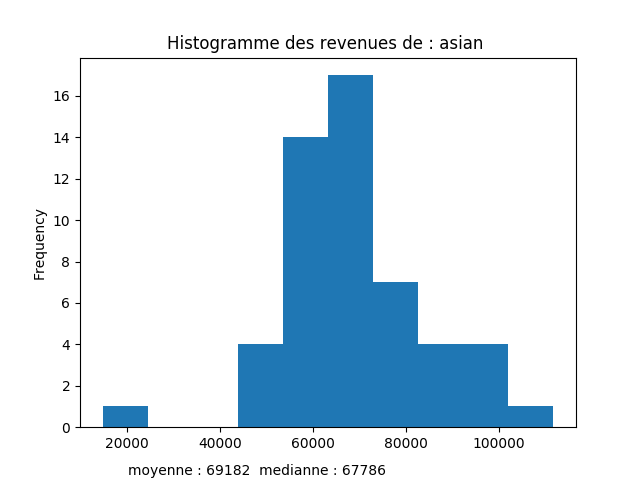
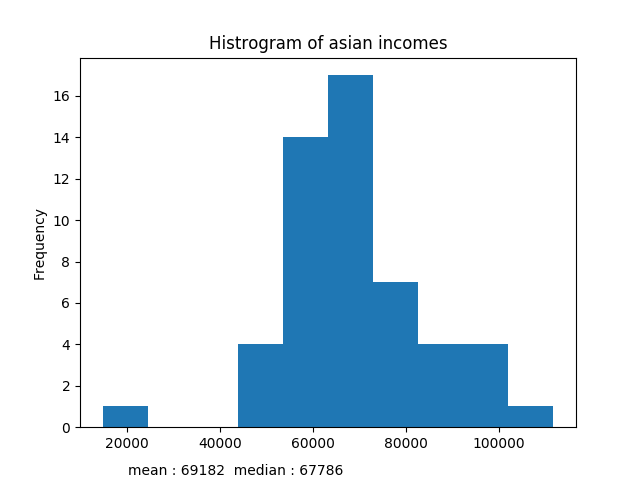
translated everyhting to english, now english is the project language

Changed region(s): [[0.25, 0.0625, 0.75, 0.125], [0.2188, 0.9688, 0.625, 1.0]]

diff --git a/templates/layout.html b/templates/layout.html
@@ -12,13 +12,13 @@
   </head>
   <body>
     <nav class="nav container">
-        <a class="nav-link" href="{{ url_for('index')}}">Données</a>
-        <a class="nav-link" href="{{ url_for('analysis')}}">Analyse</a>
+        <a class="nav-link" href="{{ url_for('index')}}">Data</a>
+        <a class="nav-link" href="{{ url_for('analysis')}}">Analysis</a>
     </nav>
     <header class="jumbotron jumbotron-fluid bg-info text-white">
       <section class="container">
-        <h1 class="display-4">Revenus médians des foyers américains</h1>
-        <p class="lead">Une analyse des données produites par le bureau du recensement américain sur le revenu médian des foyers par ethnie et par état</p>
+        <h1 class="display-4">Median incomes of US households</h1>
+        <p class="lead">Data produced by the US Census Bureau about median incomes for households by race and state</p>
       </section>
     </header>
     <main class="container">

diff --git a/templates/analysis.html b/templates/analysis.html
@@ -1,10 +1,10 @@
 {% extends "layout.html" %}
 {% block title %}Analyse{% endblock %}
 {%block main %}
-  <h1>Analyse des données</h1>
+  <h1>Data Analysis</h1>
 
   <section class="container">
-    <h2>Distribution du revenu médian des foyers par ethnie</h2>
+    <h2>Distribution of highest and lowest incomes by race</h2>
     <div class="row">
       <div class="col-sm-6">
         <img class="img-fluid" src="{{ url_for('static', filename='images/distri_richest_race.png')}}" alt="">
@@ -16,7 +16,7 @@
   </section>
 
   <section class="container">
-    <h2>Histogrammes des revenus par ethnie</h2>
+    <h2>Distribution of incomes by race</h2>
     <div class="row">
       <div class="col-sm-4">
         <img class="img-fluid" src="{{ url_for('static', filename='images/hist_white.png')}}" alt="">

diff --git a/templates/index.html b/templates/index.html
@@ -1,6 +1,6 @@
 {% extends "layout.html" %}
 {% block title %}Données{% endblock %}
 {%block main %}
-  <h1 class="mb-5">Tableau de données enrichies</h1>
+  <h1 class="mb-5">Improved data table</h1>
   {{data_table|safe}}
 {% endblock %}

diff --git a/views.py b/views.py
@@ -71,11 +71,11 @@ def analysis():
     if path.exists("data/final_income_data.csv"):
         data = pd.read_csv("data/final_income_data.csv", decimal=",")
         # Piechart with frequence of races in % in richest_race column
-        data["richest_race"].value_counts(normalize=True).plot(kind='pie', autopct='%1.1f%%', title="Ethnie au plus haut revenu")
+        data["richest_race"].value_counts(normalize=True).plot(kind='pie', autopct='%1.1f%%', title="Races with highest income")
         plt.savefig(fname="static/images/distri_richest_race")
         plt.close()
         # Piechart with frequence of races in % in poorest_race column
-        data["poorest_race"].value_counts(normalize=True).plot(kind='pie', autopct='%1.1f%%', title="Ethnie au plus bas revenu")
+        data["poorest_race"].value_counts(normalize=True).plot(kind='pie', autopct='%1.1f%%', title="races with lowest income")
         plt.savefig(fname="static/images/distri_poorest_race")
         plt.close()
 
@@ -87,8 +87,8 @@ def analysis():
         for label, column in subset.iteritems():
             mean = int(round(column.mean(skipna=True)))
             median = int(round(column.median(skipna=True)))
-            title = "Histogramme des revenues de : {} ".format(label)
-            text = "moyenne : {}  medianne : {}".format(mean, median)
+            title = "Histrogram of {} incomes".format(label)
+            text = "mean : {}  median : {}".format(mean, median)
             fname = "static/images/hist_{}".format(label)
             column.plot(kind='hist', title=title)
             plt.figtext(x=0.2, y=0.01, s=text)
